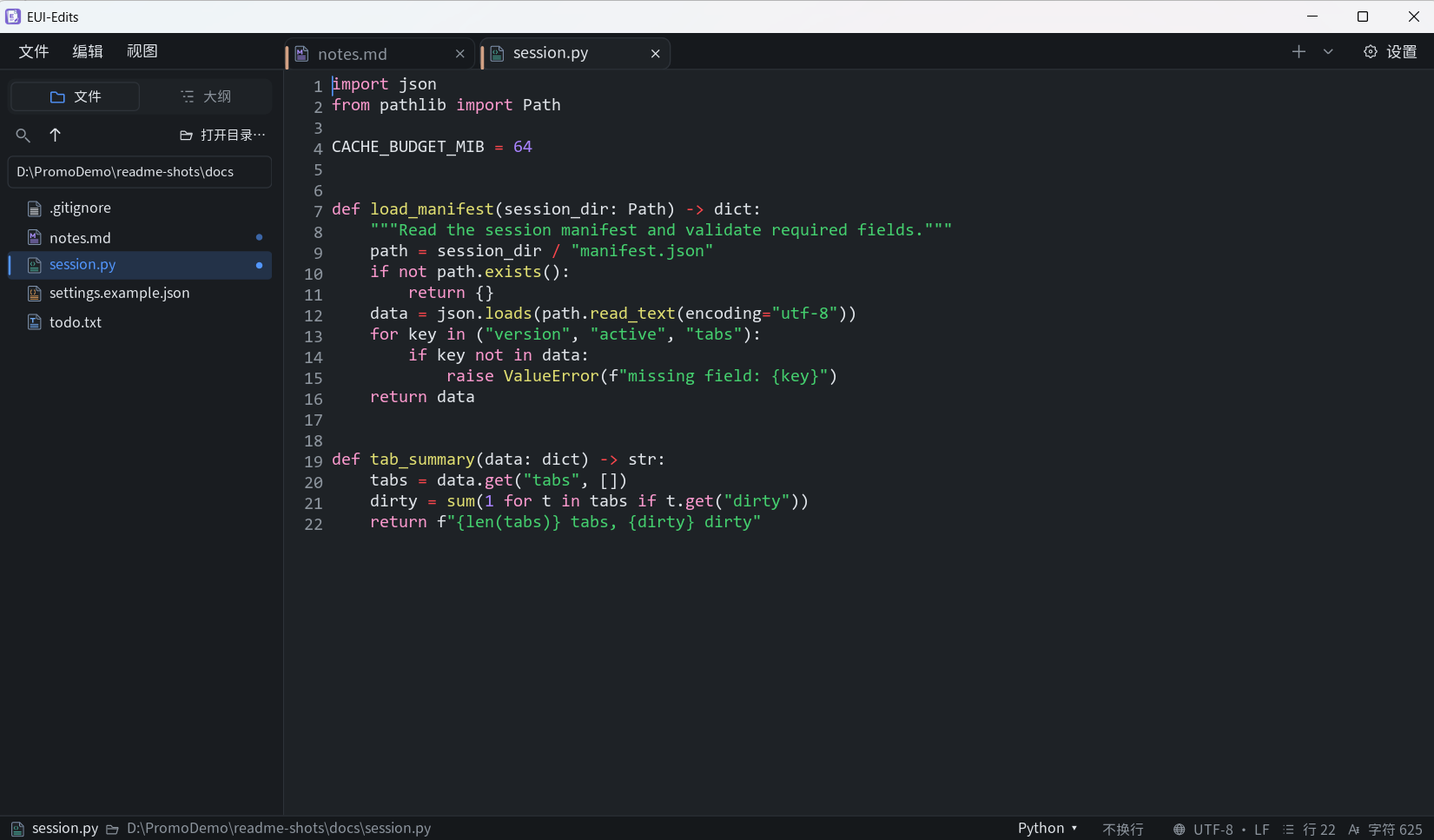
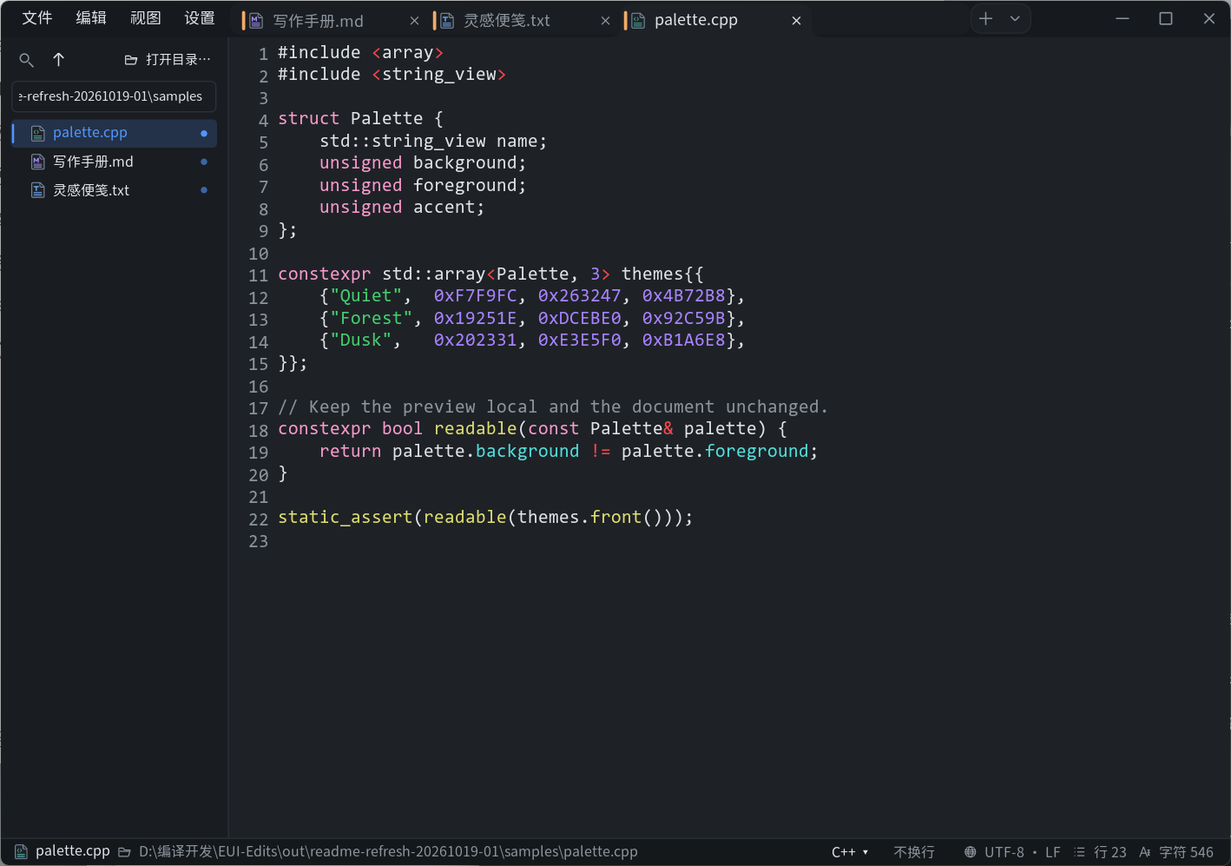
fix: fit localized find controls and refresh 0.2.0 docs

Changed region(s): [[0.0, 0.0, 1.0, 0.6515], [0.0, 0.9617, 1.0, 1.0]]

diff --git a/tests/unit/find_actions.cpp b/tests/unit/find_actions.cpp
@@ -444,8 +444,11 @@ int main() {
               "model-only revision change invalidates scope before a cached action");
     }
 
-    for (float font : {14.0f, 18.0f}) {
-        for (float width : {280.0f, 550.0f}) {
+    const std::string previousLanguage = neo::i18n::preference();
+    for (const char* language : {"zh-CN", "en"}) {
+      neo::i18n::setPreference(language);
+      for (float font : {12.0f, 13.0f, 14.0f, 15.0f, 16.0f, 17.0f, 18.0f}) {
+        for (float width : {280.0f, 320.0f, 360.0f, 550.0f}) {
           for (int scopeMode : {0, 1, 2}) {
             eui::Ui compact;
             neo::AppState view;
@@ -464,15 +467,40 @@ int main() {
             const auto* panel = compact.find("find.bar");
             const auto* query = compact.find("find.query");
             const auto* all = compact.find("find.replace.all");
+            const auto* replacement = compact.find("find.replacement");
+            const auto* replace = compact.find("find.replace");
+            const auto* replaceLabel = compact.find("find.replace.text");
+            const auto* allLabel = compact.find("find.replace.all.text");
             const auto* close = compact.find("find.close");
             check(panel && query && all && close, "compact find controls are present");
             if (panel && query && all && close) {
-                check(all->frame.x+all->frame.width <= panel->frame.x+panel->frame.width &&
+                const bool fits = all->frame.x+all->frame.width <= panel->frame.x+panel->frame.width &&
                       close->frame.x+close->frame.width <= panel->frame.x+panel->frame.width &&
                       query->frame.width >= 24 &&
-                      all->frame.y+all->frame.height <= panel->frame.y+panel->frame.height,
-                      "compact find controls fit at narrow widths and large fonts");
+                      all->frame.y+all->frame.height <= panel->frame.y+panel->frame.height;
+                if (!fits) {
+                    std::cerr << "find layout: language=" << language << " font=" << font
+                              << " width=" << width << " scope=" << scopeMode
+                              << " panelRight=" << panel->frame.x+panel->frame.width
+                              << " replaceAllRight=" << all->frame.x+all->frame.width
+                              << " closeRight=" << close->frame.x+close->frame.width
+                              << " queryWidth=" << query->frame.width << '\n';
+                }
+                check(fits, "compact find controls fit at narrow widths and large fonts");
                 check(panel->frame.height <= 96, "find panel stays compact without explanatory rows");
+            }
+            check(replacement && replace && replaceLabel && allLabel, "replacement row and text labels are present");
+            if (panel && replacement && replace && all && replaceLabel && allLabel) {
+                check(replacement->frame.width >= 24 &&
+                      replace->frame.x >= replacement->frame.x+replacement->frame.width+8 &&
+                      all->frame.x >= replace->frame.x+replace->frame.width+8 &&
+                      all->frame.x+all->frame.width <= panel->frame.x+panel->frame.width-8,
+                      "replacement row preserves minimum input, button gaps and right inset");
+                check(replaceLabel->frame.width >= core::TextPrimitive::measureTextWidth(
+                          neo::i18n::tr("find.replace"), neo::uiFontFamily(view), font) &&
+                      allLabel->frame.width >= core::TextPrimitive::measureTextWidth(
+                          neo::i18n::tr("find.replace_all"), neo::uiFontFamily(view), font),
+                      "localized replacement labels fit without truncation or smaller type");
             }
             check(!compact.find("find.hint") && !compact.find("find.title"), "search omits redundant explanatory text");
             const auto* menu = compact.find("find.options.menu.level.0");
@@ -495,6 +523,8 @@ int main() {
             }
           }
         }
+      }
     }
+    neo::i18n::setPreference(previousLanguage);
     return failures ? 1 : 0;
 }

diff --git a/apps/neo_editor/ui/find_bar.h b/apps/neo_editor/ui/find_bar.h
@@ -541,9 +541,17 @@ inline void findBarView(eui::Ui& ui, AppState& state, float width, float x, floa
         iconButton(ui, "find.close", UiIcon::Close, navX + fieldHeight*3, top, fieldHeight, true,
                    [&state] { closeFindBar(state); });
         if (state.findReplaceOpen) {
-            const float replaceWidth = core::TextPrimitive::measureTextWidth(i18n::tr("find.replace"), uiFontFamily(state), fontSize) + 24;
-            const float allWidth = core::TextPrimitive::measureTextWidth(i18n::tr("find.replace_all"), uiFontFamily(state), fontSize) + 24;
-            const float replaceField = std::max(24.0f, width-fieldX-replaceWidth-allWidth-24);
+            const float replaceText = core::TextPrimitive::measureTextWidth(i18n::tr("find.replace"), uiFontFamily(state), fontSize);
+            const float allText = core::TextPrimitive::measureTextWidth(i18n::tr("find.replace_all"), uiFontFamily(state), fontSize);
+            // Reserve the input's minimum width, two 8px gaps and the right inset
+            // before assigning button padding. English labels at 18px otherwise
+            // overflow a 280px panel when the input is clamped to its minimum.
+            constexpr float minimumFieldWidth = 24.0f;
+            constexpr float replacementSpacing = 24.0f;
+            const float buttonPadding = std::clamp((width-fieldX-minimumFieldWidth-replacementSpacing-replaceText-allText)*.5f, 8.0f, 24.0f);
+            const float replaceWidth = replaceText + buttonPadding;
+            const float allWidth = allText + buttonPadding;
+            const float replaceField = std::max(minimumFieldWidth, width-fieldX-replaceWidth-allWidth-replacementSpacing);
             components::input(ui, "find.replacement").position(fieldX, replacementTop)
                 .size(replaceField, fieldHeight).value(state.findReplacement).placeholder(i18n::tr("find.replace"))
                 .fontSize(fontSize).fontFamily(uiFontFamily(state)).inset(10).style(inputStyle)

diff --git a/README_EN.md b/README_EN.md
@@ -4,13 +4,21 @@
 
 EUI-Edits is a lightweight native text and Markdown editor for Windows, suited to everyday notes, document writing, and simple edits to source code and configuration files. Markdown is rendered live and edited in place, so formatting follows your input without switching between source and preview.
 
-Built with C++, Win32, and Direct2D, it redraws on demand and embeds no WebView. The install-free release is a single EXE with multiple tabs, a local document library, and recovery of unsaved content.
+Built with C++, Win32, and Direct2D, it redraws on demand and embeds no WebView. Its borderless window brings menus, tabs, and window controls into one top bar. The install-free release is a single EXE.
 
 ## Interface preview
 
-![Live Markdown rendering and in-place editing in the light theme](docs/screenshots/markdown-light.png)
+Light writing view: a borderless top bar, Markdown tools, and live rendering.
 
-![Multi-tab editing with syntax coloring in the dark theme](docs/screenshots/code-dark.png)
+![Markdown writing interface in the 0.2.0 light theme](docs/screenshots/markdown-light.png)
+
+Dark code view: multiple tabs, line numbers, and basic syntax coloring.
+
+![Code editing interface in the 0.2.0 dark theme](docs/screenshots/code-dark.png)
+
+Theme workspace: preview colors on a sample and generate neutral, soft, or vivid palettes from a seed color.
+
+![Theme workspace and local palette generation in 0.2.0](docs/screenshots/theme-workbench.png)
 
 The application icon and document icons for Markdown, text, code, data, and other files share one design:
 
@@ -18,32 +26,33 @@ The application icon and document icons for Markdown, text, code, data, and othe
 
 ## The editing experience
 
-- **Markdown as you write.** Headings, lists, blockquotes, code blocks, and tables appear directly in the document; the active editing region shows source text. Links are clickable, tasks can be checked, and local images open a preview with zoom and pan.
-- **Multiple tabs.** Each tab preserves its caret, selection, undo history, folds, and library view. Opening the same file locates its existing tab; launching the app again forwards file requests to the running window.
-- **A local document library.** Browse a folder in the sidebar, including hidden and extensionless files. Opened files are marked with a dot, and `F2` renames items. Directory scanning runs in the background and refreshes on changes; document contents load only when opened.
-- **Editing across text formats.** Open Markdown, plain text, source code, and data files. Recognized formats receive basic syntax coloring; "Syntax mode…" changes the presentation manually. Find and replace, word wrap, and line numbers support everyday editing.
-- **Saving and recovery.** Saving preserves the original encoding, BOM, and line endings and checks for external changes. Unsaved content is copied periodically for recovery; after an abnormal exit, it can return as separate drafts for review and manual saving.
+- **Markdown as you write.** Headings, lists, blockquotes, code blocks, and tables appear directly in the document; the active editing region shows source text. The toolbar inserts common formatting, tasks can be checked, and local images open a preview with zoom and pan.
+- **Writing and navigation.** Typewriter mode follows the current input line. Focus mode hides interface elements and dims unselected non-current lines while retaining mode and window controls. The right-side outline jumps to headings; local Markdown and wiki links support headings in the same or another file.
+- **Draggable tabs.** Drag tabs to reorder them. Each tab preserves its caret, selection, undo history, folds, and library view. Opening the same file locates its existing tab; launching the app again forwards file requests to the running window.
+- **A library that loads on demand.** Browse a folder in the sidebar, including hidden and extensionless files. Opened files are marked with a dot. Entries load in batches one directory level at a time; expanding a subfolder loads its entries, and opening a file loads its contents. `F2` renames items.
+- **Editing across text formats.** Open Markdown, plain text, source code, and data files. Recognized formats receive basic syntax coloring; "Edit → Syntax mode…" changes the presentation manually. Find and replace can be limited to a selection, with one-step undo for Replace all. Word wrap and line numbers support everyday editing.
+- **Saving and recovery.** Saving preserves the original encoding, BOM, and line endings, checks for external changes, and verifies the written content. A failed save retains the unsaved state and recovery data. Unsaved content is copied periodically for recovery; after an abnormal exit, it can return as separate drafts for review and manual saving.
 
 ## Markdown support
 
 | Syntax | Current behavior |
 | --- | --- |
-| Headings (`#` and underline style), paragraphs | ✅ Live rendering and in-place editing |
-| Bold, italic, inline code, strikethrough, underline (`_.._`) | ✅ Supported |
-| Links, wiki links (`[[...]]`) | ✅ Clickable navigation |
-| Ordered / unordered lists, tasks, blockquotes | ✅ Supported; tasks are clickable, blockquotes nest up to four levels |
-| Fenced code blocks, tables, dividers, frontmatter | ✅ Supported |
-| Local images on their own line | ✅ Rendered; click to preview |
-| Inline math `$...$`, HTML | ⚠ Math uses code styling; HTML stays as source and is not executed |
-| Formula typesetting, remote images, highlights, comments, footnotes, callouts, tags | ❌ Not yet supported; source remains editable |
+| Headings (`#` and underline style), paragraphs | Live rendering and in-place editing |
+| Bold, italic, inline code, strikethrough, underline (`_.._`) | Supported |
+| Links, wiki links (`[[...]]`) | Clickable navigation |
+| Ordered / unordered lists, tasks, blockquotes | Supported; tasks are clickable, blockquotes nest up to four levels |
+| Fenced code blocks, tables, dividers, frontmatter | Supported |
+| Local images on their own line | Rendered; click to preview |
+| Inline math `$...$`, HTML | Math uses code styling; HTML stays as source and is not executed |
+| Formula typesetting, remote images, highlights, comments, footnotes, callouts, tags | Not yet supported; source remains editable |
 
 Markdown covers common writing syntax and some extensions; full Obsidian compatibility is not guaranteed.
 
 ## Getting started
 
-Download `EUI-Edits-0.2.0-windows-x64.exe` from the [0.2.0 release page](https://github.com/fclx512/EUI-Edits/releases/tag/neoeditor-v0.2.0), put it where you plan to keep it, and run it directly. No resource folder needs unpacking. The unsigned app targets Windows 10/11 x64. Windows 11 has received on-machine validation; Windows 10 has not received equivalent testing. The [release process](docs/发版流程.md) defines candidate freezing, gates, packaging, and acceptance before publication.
+Choose a version on the [releases page](https://github.com/fclx512/EUI-Edits/releases), download its `EUI-Edits-<version>-windows-x64.exe`, put it where you plan to keep it, and run it directly. No resource folder needs unpacking. This README describes the 0.2.0 source; available downloads are listed on the releases page. The unsigned app supports Windows 10/11 x64 and has been tested on both systems. Appearance and behavior may vary with your system, fonts, and display settings.
 
-**Changes in 0.2.0:** Adds a theme workspace with local palette generation, writing tools and an immersive mode, selection-scoped find and replace, and heading-link navigation. Strengthens save verification and recovery protection, and loads library folders in batches. See the [release notes](apps/neo_editor/RELEASE-NOTES.md) for details and limits.
+**Changes in 0.2.0:** Version 0.2.0 adds a borderless window with draggable tabs, a theme workspace with local palette generation, Markdown tools, Typewriter and Focus modes, a right-side outline, selection-scoped find and replace, and heading-link navigation. It also strengthens save verification and recovery protection, and loads library folders on demand. See the [release notes](apps/neo_editor/RELEASE-NOTES.md) for more changes.
 
 ### Common actions
 
@@ -55,12 +64,17 @@ Download `EUI-Edits-0.2.0-windows-x64.exe` from the [0.2.0 release page](https:/
 | Close current tab | `Ctrl+W`; modified content prompts for save, discard, or cancel |
 | Next / previous tab | `Ctrl+Tab` / `Ctrl+Shift+Tab` |
 | Go to tab | `Ctrl+1`–`Ctrl+8` select the matching tab, `Ctrl+9` the last |
-| Find / replace | `Ctrl+F` / `Ctrl+H` |
+| Find / replace | `Ctrl+F` / `Ctrl+H`; enable selection scope in find options |
 | Next / previous match | With the find bar open: `F3` / `Shift+F3`, or `Ctrl+G` / `Ctrl+Shift+G` |
 | Open library / rename | "File → Open folder…"; focus a sidebar item and press `F2` |
-| Settings | "View → Settings…" or `Ctrl+,` |
+| Fold / unfold current section | `Ctrl+Shift+J` |
+| Typewriter / Focus | Buttons at the right of the Markdown toolbar; plain text uses floating writing buttons |
+| Show / hide outline | "Outline" button at the right of the Markdown toolbar |
+| Settings | Top-bar "Settings", "View → Settings…", or `Ctrl+,` |
 
-A new document's first save chooses its name and location. For garbled text, choose "File → Reopen with encoding". A failed save, an unrepresentable character, or a cancelled save keeps the document content and does not silently replace the original file.
+A new document's first save chooses its name and location. For garbled text, choose "File → Reopen with encoding"; use "File → Convert to UTF-8" when conversion is needed. Unrepresentable characters produce a warning, and failed or cancelled saves retain the document content.
+
+Typewriter and Focus work in Markdown and plain text; their preferences last for the current session. Focus hides interface elements without entering system fullscreen. Selection-scoped find uses literal text matching. If edits, undo, or reload invalidate the original range, EUI-Edits warns and stops selection-scoped matching to prevent replacement at stale positions; choose a new range or switch to document scope to continue.
 
 In image preview, use the wheel to zoom, middle-drag to pan, and left-click or `Esc` to close.
 
@@ -76,7 +90,7 @@ Settings live in the current Windows user's profile and do not move with the EXE
 
 After an abnormal exit, recovered content opens as separate drafts without automatically overwriting original files. A normal exit clears the recovery session after save or discard confirmations, so all tabs do not automatically reopen next time. Recovery copies are periodic, not per-keystroke saves; save important work yourself.
 
-"Settings → Files & system" registers Open-with entries for the current user, initially selecting TXT and Markdown. Choose the default app separately in Windows. Moving or renaming the EXE requires registering associations again. Script files are edited as text; their code is not executed.
+"Settings → Files & system" registers Open-with entries for the current user, initially selecting TXT and Markdown. It shows selected, pending-add, and pending-remove counts; "Select recommended" excludes HTML, Shell, batch, and PowerShell files. Choose the default app separately in Windows. Moving or renaming the EXE requires registering associations again. Script files are edited as text; their code is not executed.
 
 ## Appearance and personalization
 
@@ -92,13 +106,17 @@ Most settings take effect immediately and persist across launches:
 
 The status bar shows file location, syntax mode, encoding, line endings, line count, and character count, with controls for syntax mode and word wrap; some information collapses in narrow windows. Fonts come from your machine or imports; the release ships no font files.
 
-**The local theme workspace is a beta feature.** Open "Settings → Appearance → Theme library" to view a sample on the left and edit colors or typography on the right. It supports local palette generation, per-color locks, undo/redo, and saving a new theme. JSON or CSS imports are reviewed before creating a draft; files can also be placed in the `themes` folder above. For Obsidian themes, select `manifest.json` with a sibling `theme.css`, or select CSS directly. Import maps recognizable colors only, never executes CSS, and does not promise the original layout or plugin styles. Built-in colors remain available.
+**The local theme workspace is a beta feature.** Open "Settings → Appearance → Theme library" to view a sample on the left and edit colors or typography on the right. Each light/dark side has 26 colors. It supports local palette generation, per-color locks, undo/redo, comparison with the baseline, and saving a new theme. Typography controls include line spacing, paragraph spacing, and heading scales.
+
+JSON or CSS imports are reviewed before creating a draft; files can also be placed in the `themes` folder above. Saved themes persist across launches; unsaved drafts and their undo history do not.
+
+For Obsidian themes, select `manifest.json` with a sibling `theme.css`, or select CSS directly. Import maps recognizable colors only, never executes CSS, and does not promise the original layout or plugin styles. Built-in colors remain available.
 
 ## Resource use
 
 The UI redraws on demand. Tab switches reuse layout and highlighting where possible, with less-used derived data released when cache budgets are exceeded. The library scans metadata without loading every document. Disabling interaction animations removes hover and press transition frames.
 
-These are **historical idle memory measurements of a 0.1.4 candidate development build on 2026-10-15, not measurements of 0.2.0**, in MiB: Windows 11, default Win32 / Direct2D software rendering, light theme, 125% system scaling, word wrap and readable width enabled. The 1280 × 800 window remains visible in the background and is not minimized. The measurement fixture gives its owned window a non-activation flag to avoid taking focus during normal computer use. Each scenario starts three times in separate profiles, idles for 10 seconds after loading, then collects 20 samples at 0.5-second intervals per run. Entries are the median of the per-run medians.
+The following are **historical idle memory figures for 0.1.4 on Windows 11**, in MiB:
 
 | Scenario | Total working set | Private working set | Private commit |
 | --- | ---: | ---: | ---: |
@@ -107,9 +125,7 @@ These are **historical idle memory measurements of a 0.1.4 candidate development
 | 9 MiB plain text, 73,728 file lines | 118.0 | 87.8 | 101.9 |
 | 9 MiB Markdown, same line count, with a list item, emphasis, and inline code on every line | 216.6 | 186.2 | 207.0 |
 
[1 lines of base64/hex data omitted]
-
-Line count, Markdown structure, undo history, tab caches, and decoded images also affect memory. These results exclude editing and saving and are neither interaction peaks nor fixed ceilings. Large files need not have the footprint of small documents. Fixtures match the old 0.1.0 measurement, but the old windows were foreground and these are background windows, so this is not a controlled comparison of version gains. The [background measurement method](docs/性能测试方法.md#readme-闲置内存) (Chinese) leaves the mouse and keyboard available for normal use.
+These figures are for reference only, not measurements of 0.2.0 or memory ceilings. Actual use varies with the system, document content, settings, and editing activity, and may differ from the table. The three metrics cannot be added together.
 
 ## Current scope
 
@@ -119,30 +135,26 @@ EUI-Edits focuses on local text editing. It provides no knowledge-base managemen
 | --- | --- |
 | Files | Default open limit: **64 MiB**; oversized files, suspected binaries, and unreliable decoding are rejected |
 | Encodings | UTF-8, UTF-16 LE / BE, Windows ANSI code pages; saves preserve encoding, BOM, and LF / CRLF characteristics |
-| Library | Does not recurse into symbolic-link or junction targets; some explicit file operations refresh synchronously and may take time in large directories |
+| Library | Loads one level at a time in batches of up to 500 entries; expanding a subfolder loads its entries. Filtering covers loaded entries only, and automatic watching covers changes to direct children of the root. Does not recurse into symbolic-link or junction targets |
 | Recovery | Up to **256 tab entries**; recovery-body read limits of **256 MiB per file**, **1 GiB total**; damaged manifests or missing bodies are retained and reported, and recovery may be unavailable |
 
 ## Development
 
-Building requires Windows, Visual Studio 2022 / 2026 or Build Tools with the C++ desktop workload and Windows SDK, a CMake version supporting that generator, and PowerShell 7. Checks also need Python 3; packaging uses MSVC's `dumpbin.exe`. Dependency sources are included in the repository.
+Building requires Windows, Visual Studio 2022 / 2026 or Build Tools with the C++ desktop workload and Windows SDK, a CMake version supporting that generator, PowerShell 7, and Python 3. Dependency sources are included in the repository.
 
-Run from PowerShell at the repository root:
+Run from the repository root:
 
 ```powershell
-# Translation and selected Win32 / Direct2D correctness checks
-.\scripts\check-neoeditor.ps1
+# Run checks
+pwsh -NoProfile -File ./scripts/check-neoeditor.ps1
 
-# Build Release x64 and produce a single EXE (the maintainer verifies its hash before and after publication)
-.\scripts\package-neoeditor.ps1 -Version 0.2.0
+# Build a Release x64 single EXE
+pwsh -NoProfile -File ./scripts/package-neoeditor.ps1 -Version 0.2.0
 ```
 
-The output is `out/euiedits-0.2.0-single-exe/EUI-Edits-0.2.0-windows-x64.exe`. Packaging selects Win32 / Direct2D, statically links the framework and MSVC runtime, embeds icons and licenses, and checks versions, DLL dependencies, and license export. Real-window interaction acceptance is separate.
+The output is `out/euiedits-0.2.0-single-exe/EUI-Edits-0.2.0-windows-x64.exe`. Source folders, CMake targets, and script names retain the internal `neo_editor` identifier.
 
-Scripts locate tools automatically; override with `-CMake` or `-Generator`, plus `-Python` for checks or `-Dumpbin` for packaging. For another build, select a fresh package output with `-OutputDirectory`; existing release files are never overwritten. After moving the source tree, use a fresh build directory rather than a CMake cache containing old paths. The packaging script contains Chinese comments; run it with PowerShell 7 (`pwsh`) — Windows PowerShell 5.1 reads the BOM-less script as ANSI and reports a parse error.
-
-The source folder `apps/neo_editor`, CMake target `neo_editor`, and script names above retain internal identifiers; the product and release files are named **EUI-Edits**. Additional packaging options and historical acceptance records are in the [release build guide](docs/NeoEditor-发布构建说明-2026-10-02.md). Its old names and absolute paths are historical references; the scripts define the current package configuration.
-
-For maintenance and further development, see the [documentation index](docs/目录说明.md) (Chinese).
+See the [release build guide](docs/NeoEditor-发布构建说明-2026-10-02.md) for more build options and the [documentation index](docs/目录说明.md) for maintenance and release guidance (Chinese).
 
 ## License and credits
 

diff --git a/apps/neo_editor/RELEASE-NOTES.md b/apps/neo_editor/RELEASE-NOTES.md
@@ -5,16 +5,16 @@
 ## 本次更新
 
 - **主题工作台：** 左侧样张、右侧设置，在同一工作区调整浅色和深色主题。支持本地自动配色、26 项颜色编辑、单项固定、排版设置、修改前对比及撤销/重做。Obsidian CSS 导入先显示读取报告，确认后创建草稿；保存为新的本地主题文件，不改导入源文件。未保存主题草稿在关闭应用前会提示处理。
-- **写作与导航：** 增加 Markdown 写作工具栏与沉浸写作入口，调整标签栏和窗口顶栏；纯文本写作按钮浮动显示。Markdown 与 Wiki 本地链接支持同页和跨页标题跳转，编辑链接时自动聚焦并全选目标。行内代码间距同步参与换行与光标几何。
-- **查找替换：** 支持在选区快照内查找和替换，范围失效时停止使用旧范围；批量替换可一步撤销。单项替换根据当前实际选区识别命中，未选中命中时先定位下一项，并遵循回绕设置。
-- **文件与恢复：** 提供“转换为 UTF-8”，保留正文、撤销历史及换行类型。新建文件使用禁止覆盖的原子发布，已有文件保存后回读核对；无法确认保存成功时保留修改状态和恢复稿。恢复会话核对正文标识，避免使用已被外部改写的恢复内容。
+- **写作与导航：** 无边框窗口整合菜单、标签与窗口控制，标签可拖动排序。增加 Markdown 写作工具栏、打字机与专注模式，右侧大纲支持标题导航；纯文本写作按钮浮动显示。Markdown 与 Wiki 本地链接支持同页和跨页标题跳转，编辑链接时自动聚焦并全选目标。行内代码间距同步参与换行与光标几何。
+- **查找替换：** 支持在选区快照内查找和替换，范围失效时停止使用旧范围；批量替换可一步撤销。单项替换根据当前实际选区识别命中，未选中命中时先定位下一项，并遵循回绕设置。修正英文界面大字号下窄查找栏的按钮溢出。
+- **文件与恢复：** 提供“转换为 UTF-8”，保留正文、撤销历史及换行类型。从文档库新建文件时避免覆盖已有文件，保存后核对写入内容；无法确认保存成功时保留修改状态和恢复稿。恢复会话核对正文标识，避免使用已被外部改写的恢复内容。
 - **文档库与编辑基础：** 文档库按层、分批后台加载，展开目录后再读取子项；筛选明确限于已加载内容。改进输入预编辑、选区显示、文本图集和布局回调，并扩展对应回归检查。
-- **构建与发布：** 统一版本预检、完整正确性门禁与独立单 EXE 打包，保留源码身份和失败诊断；新加入的自动配色依赖与许可证随源码和发行包提供。
+- **离线配色：** 自动配色依赖随程序提供，无需联网；相关开源许可与署名可在应用内查看。
 
-## 验收边界
+## 使用说明
 
 主题导入只读取支持的配色，不执行 CSS，也不保证还原 Obsidian 布局或插件样式。自动配色在本地运行，混合固定色或手调后仍需检查实际可读性。主题草稿及其撤销历史仅在本次应用会话内保留，长期使用请保存为主题文件。
 
-本版本面向 Windows 10/11 x64，未签名；Windows 10、低配设备、多屏混合 DPI、持续拖选、完整原生 IME 矩阵及 GPU 设备丢失恢复的覆盖需分别记录，不作普遍性能保证。README 中 2026-10-15 的内存样本属于历史 0.1.4 开发构建，不代表 0.2.0 的实测结果。
+本版本支持 Windows 10/11 x64，两个系统均已通过实机测试，目前未签名。不同硬件、系统、字体与显示设置下的界面和性能可能有所差异，不保证与截图或参考数据完全一致。README 中的内存数据来自历史 0.1.4，不代表 0.2.0 的实测结果。
 
-更新方法：直接删除旧版本，然后在新版本中的文件关联点击应用并修复即可（如果此前已注册打开方式）。发布前的候选冻结、门禁、打包和验收顺序见[发版流程](../../docs/发版流程.md)。发布说明不附哈希文件表；最终资产哈希由维护者单独核验。
+更新方法：用新 EXE 替换旧版本；如果此前已注册打开方式，在新版本的文件关联设置中点击“应用并修复”。设置和本地主题保存在用户配置目录，替换 EXE 不会清除它们。
